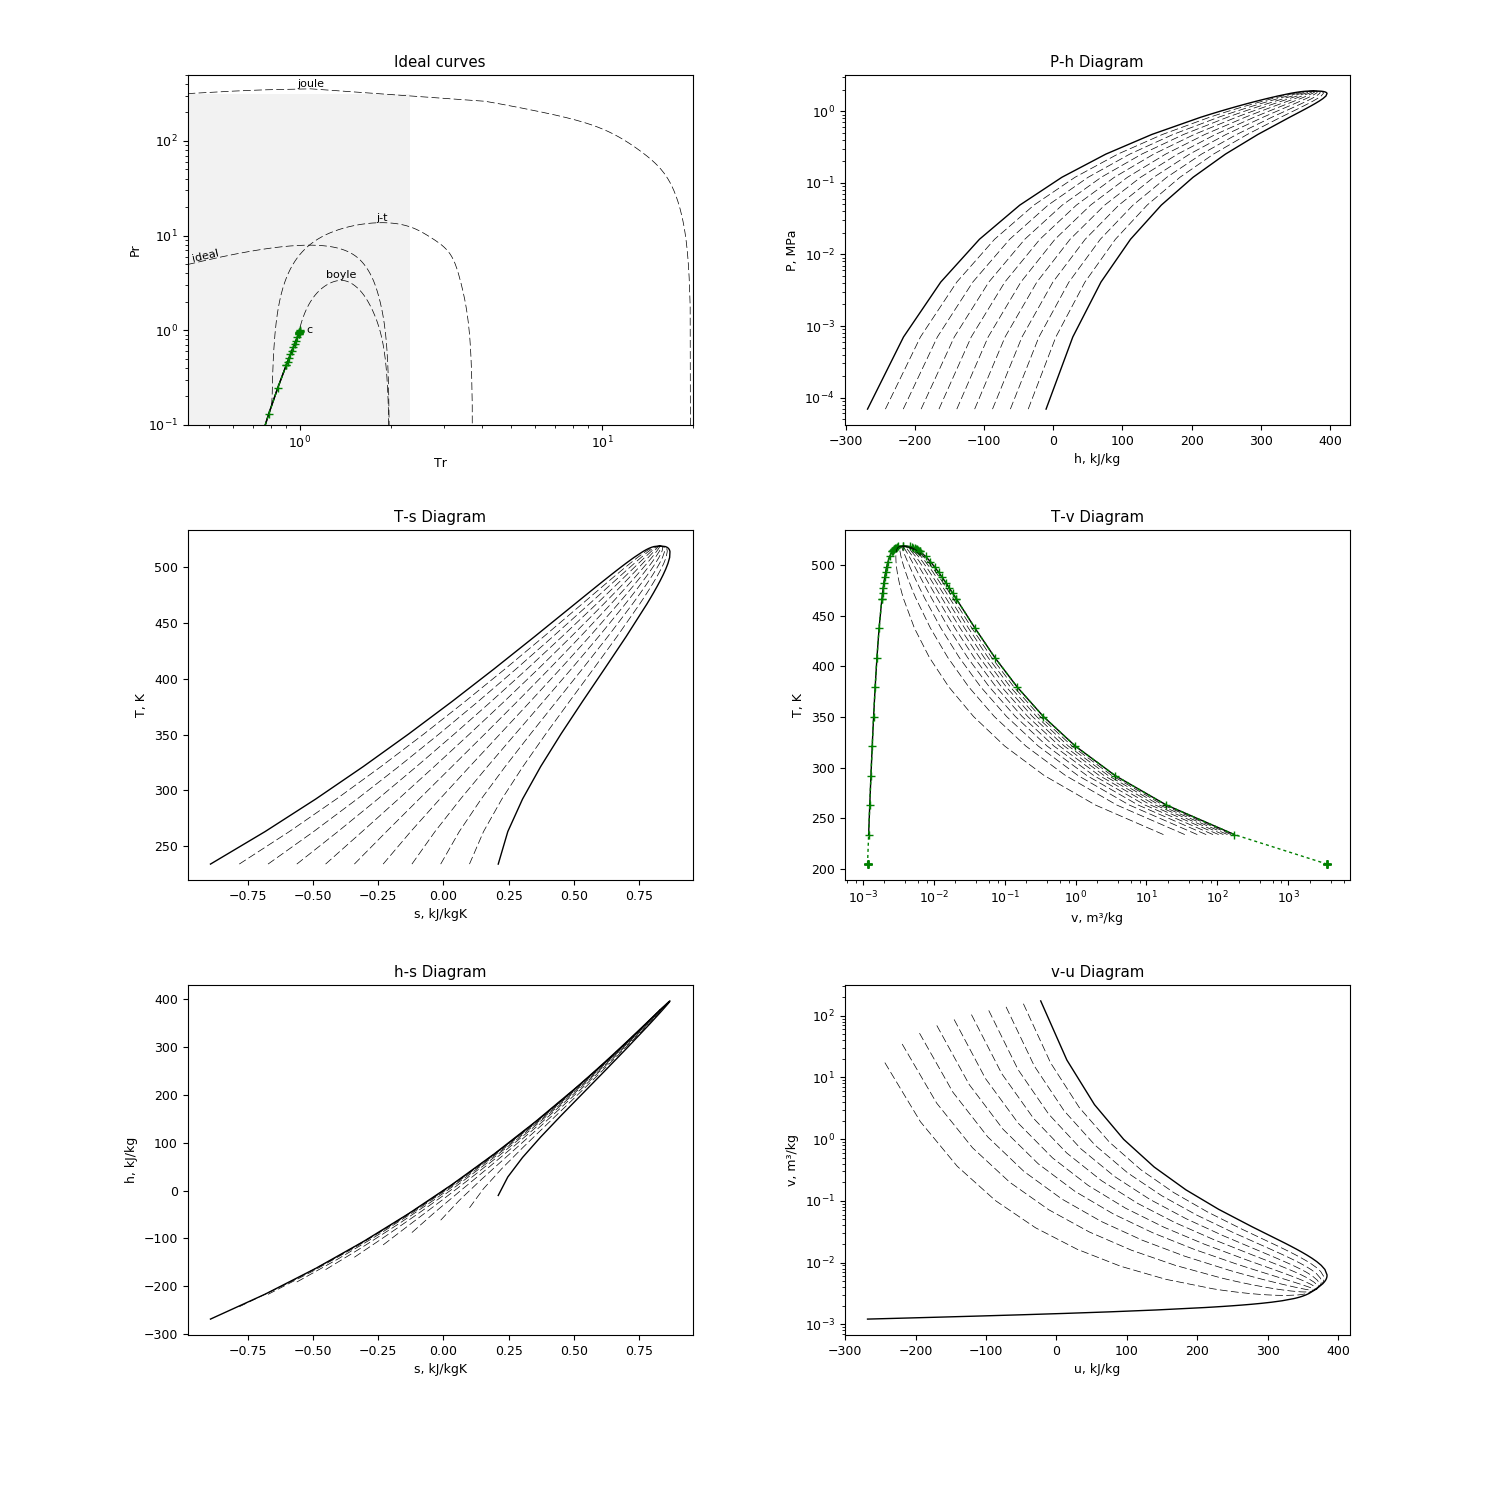
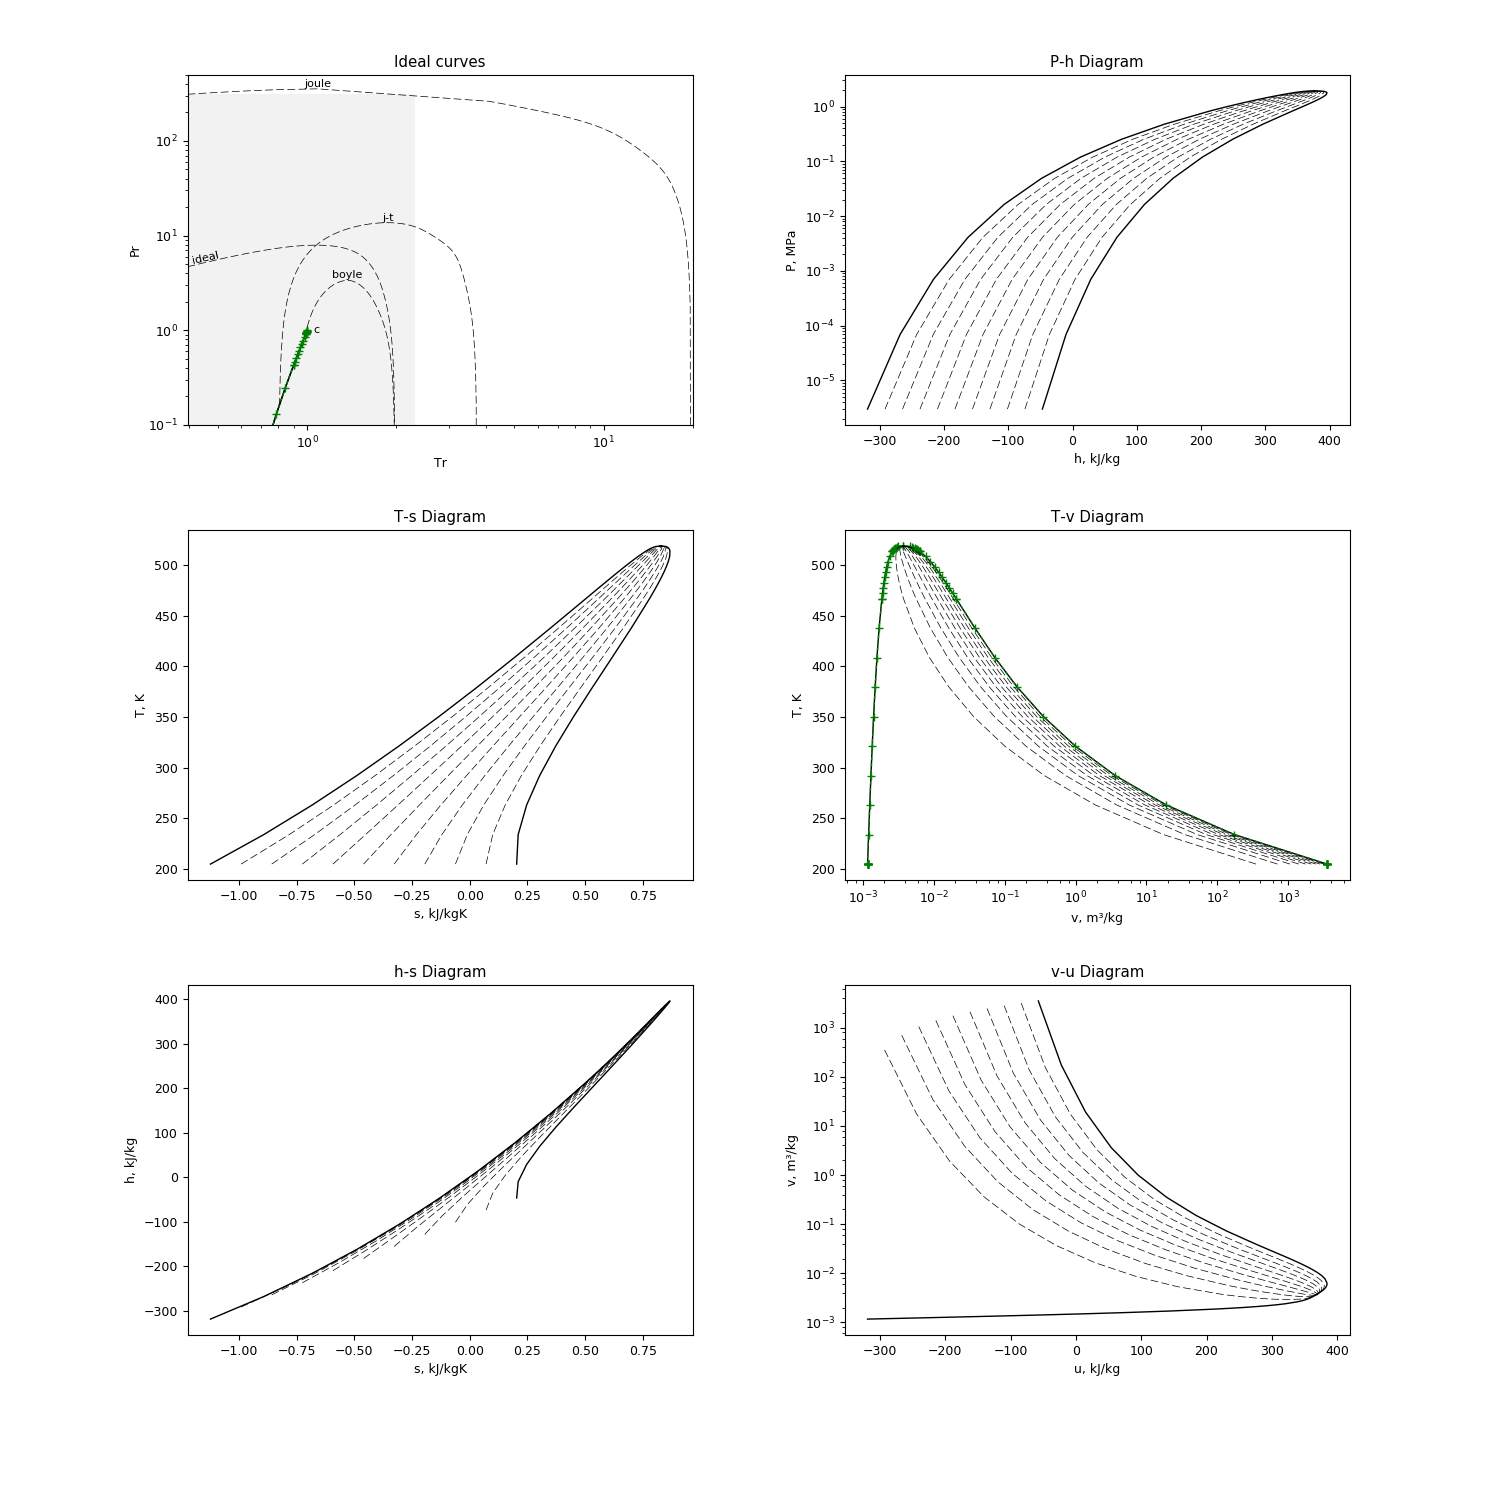
Add docs image for MD4M

diff --git a/lib/mEoS/MM.py b/lib/mEoS/MM.py
@@ -70,7 +70,7 @@ class MM(MEoS):
         "cp": Fi1,
         "ref": "OTO",
 
-        "Tmin": 220.0, "Tmax": 1200.0, "Pmax": 600000.0, "rhomax": 5.266,
+        "Tmin": Tt, "Tmax": 1200.0, "Pmax": 600000.0, "rhomax": 5.266,
         "M": 162.3768, "Tc": 518.7, "rhoc": 1.653, "Pc": 1931.1,
 
         "nr1": [0.5063651e-1, 8.604724, -9.179684, -1.146325, 0.4878559],

diff --git a/lib/mEoS/MD4M.py b/lib/mEoS/MD4M.py
@@ -59,7 +59,7 @@ class MD4M(MEoS):
         "cp": CP1,
         "ref": "NBP",
 
-        "Tmin": 300, "Tmax": 673.0, "Pmax": 30000.0, "rhomax": 2.09,
+        "Tmin": Tt, "Tmax": 673.0, "Pmax": 30000.0, "rhomax": 2.09,
         "Pmin": 0.000000001, "rhomin": 2.09,
 
         "nr1": [1.18492421, -1.87465636, -0.65713510e-1, -0.61812689,
